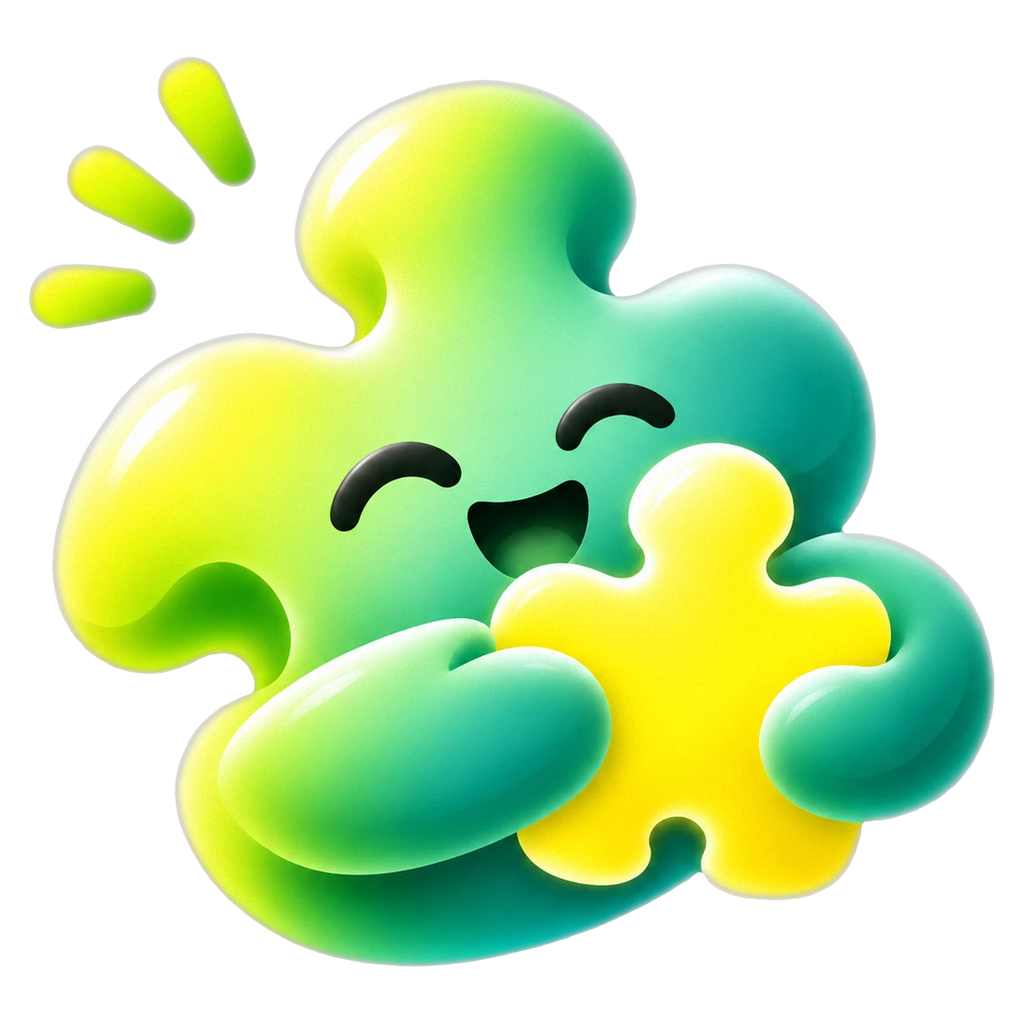
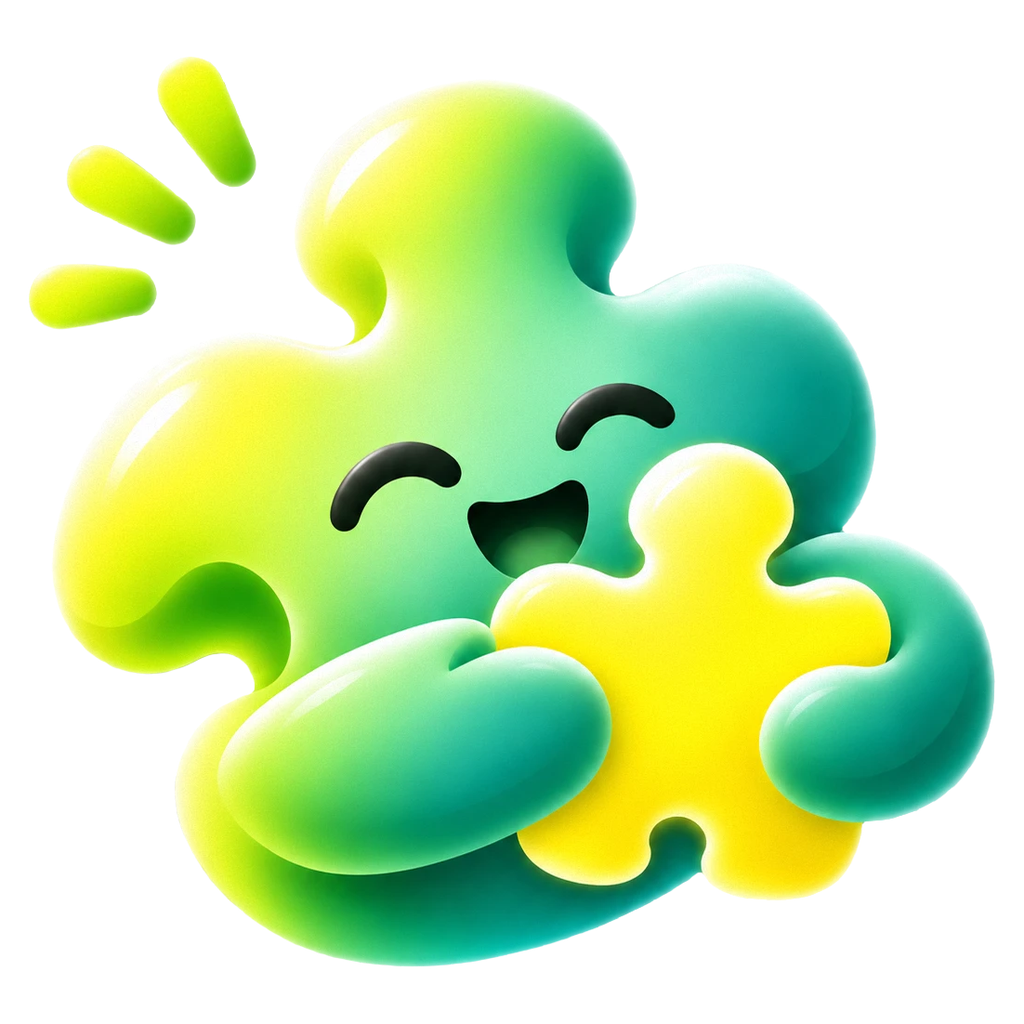
ui: remove the grey rim around Pino and soften his floating shadow
PO feedback: a grey rim had appeared around the artwork and the shadow
was too small and hard.

- the rim came from resizing to 1024 px with straight alpha: the black
  of fully transparent pixels bled into the soft edge (mean edge
  brightness 132 vs 193 in the original). Resize premultiplied; for the
  main logo (delivered with a baked-in checkerboard) edge pixels also
  take the colour of the figure next to them
- shadow: a wide (about Pino's width), soft radial oval, at most 14 %
  opacity, fading out completely to the sides

Claude-Session: https://claude.ai/code/session_01CZ9FFcy5zGQryXQRGVkaUU

diff --git a/packages/ui/src/components/LoadingScreen.tsx b/packages/ui/src/components/LoadingScreen.tsx
@@ -8,9 +8,9 @@ import Animated, {
   withRepeat,
   withTiming,
 } from 'react-native-reanimated';
+import Svg, { Defs, Ellipse, RadialGradient, Stop } from 'react-native-svg';
 
 import { useReduceMotion } from '../motion/MotionProvider.tsx';
-import { withAlpha } from '../styles/helpers.ts';
 import { palette, spacing } from '../tokens.ts';
 import { ActivityBar } from './ActivityBar.tsx';
 import { FloatingPieces } from './FloatingPieces.tsx';
@@ -21,6 +21,8 @@ import { Text } from './Text.tsx';
 const PINO = 220;
 const FLOAT = 10; // dp up and down
 const FLOAT_MS = 1800; // one way – a calm breath
+const SHADOW_W = PINO * 1.05; // wide, soft ground shadow
+const SHADOW_H = 34;
 
 /** Pino floats gently; his soft shadow on the ground shrinks a little while he rises. */
 function FloatingPino() {
@@ -36,12 +38,24 @@ function FloatingPino() {
   }, [reduceMotion, t]);
   const body = useAnimatedStyle(() => ({ transform: [{ translateY: -FLOAT * t.get() }] }));
   const shadow = useAnimatedStyle(() => ({
-    opacity: 1 - 0.35 * t.get(),
-    transform: [{ scaleX: 1 - 0.12 * t.get() }],
+    opacity: 1 - 0.3 * t.get(),
+    transform: [{ scaleX: 1 - 0.1 * t.get() }],
   }));
   return (
     <View style={styles.stage}>
-      <Animated.View style={[styles.shadow, shadow]} />
+      <Animated.View style={[styles.shadow, shadow]} pointerEvents="none">
+        {/* soft oval: strongest in the middle, fading out completely towards the sides */}
+        <Svg width={SHADOW_W} height={SHADOW_H}>
+          <Defs>
+            <RadialGradient id="pino-ground" cx="50%" cy="50%" rx="50%" ry="50%">
+              <Stop offset="0" stopColor={palette.teal} stopOpacity={0.14} />
+              <Stop offset="0.55" stopColor={palette.teal} stopOpacity={0.07} />
+              <Stop offset="1" stopColor={palette.teal} stopOpacity={0} />
+            </RadialGradient>
+          </Defs>
+          <Ellipse cx={SHADOW_W / 2} cy={SHADOW_H / 2} rx={SHADOW_W / 2} ry={SHADOW_H / 2} fill="url(#pino-ground)" />
+        </Svg>
+      </Animated.View>
       <Animated.View style={body}>
         <Mascot emotion="excited" size={PINO} accessibilityLabel={null} />
       </Animated.View>
@@ -103,16 +117,8 @@ export function LoadingScreen({ title, message, progress, testID }: LoadingScree
 
 const styles = StyleSheet.create({
   center: { flex: 1, alignItems: 'center', justifyContent: 'center', gap: spacing.xl },
-  stage: { width: PINO, height: PINO + FLOAT + 16, alignItems: 'center', justifyContent: 'flex-end' },
-  shadow: {
-    position: 'absolute',
-    bottom: 0,
-    width: PINO * 0.62,
-    height: 18,
-    borderRadius: 999,
-    backgroundColor: withAlpha(palette.teal, 0.16),
-    boxShadow: `0px 0px 14px ${withAlpha(palette.teal, 0.22)}`,
-  },
+  stage: { width: SHADOW_W, height: PINO + FLOAT + 16, alignItems: 'center', justifyContent: 'flex-end' },
+  shadow: { position: 'absolute', bottom: -SHADOW_H / 4, width: SHADOW_W, height: SHADOW_H },
   text: { gap: spacing.xs, paddingHorizontal: spacing.lg },
   bar: { alignSelf: 'stretch', paddingHorizontal: spacing.huge, gap: spacing.xs },
 });
